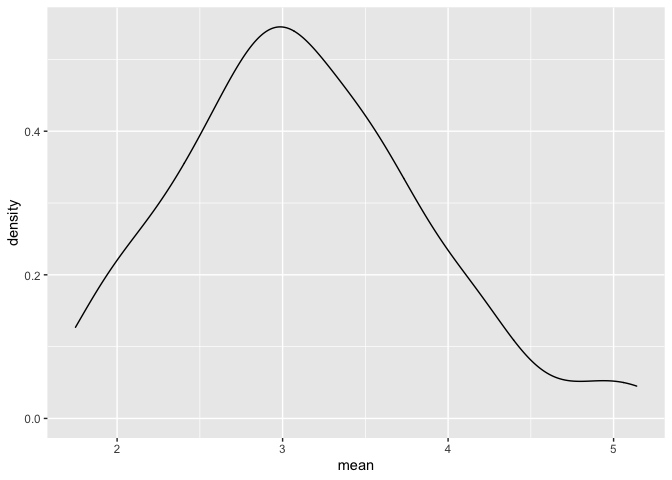
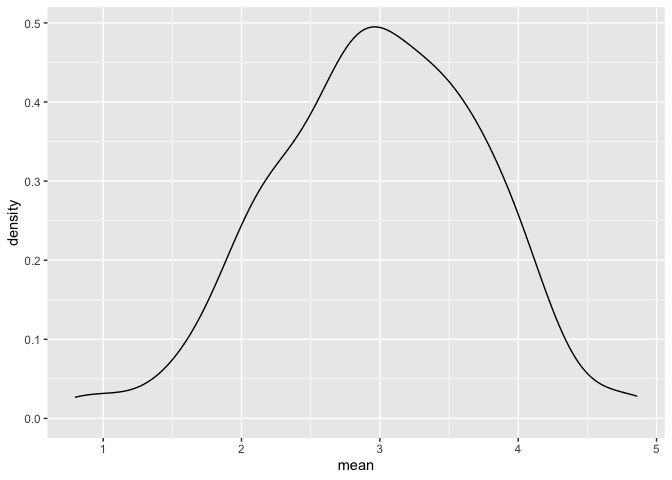
running many simulations

diff --git a/simulations.md b/simulations.md
@@ -34,6 +34,10 @@ library(rvest)
     ## 
     ##     guess_encoding
 
+``` r
+set.seed(1)
+```
+
 ## Let’s simulate something
 
 I have this function …
@@ -63,7 +67,7 @@ sim_mean_sd(30)
     ## # A tibble: 1 x 2
     ##    mean    sd
     ##   <dbl> <dbl>
-    ## 1  3.23  3.94
+    ## 1  3.33  3.70
 
 ## Let’s simulate a lot
 
@@ -84,16 +88,16 @@ bind_rows(output)
     ## # A tibble: 100 x 2
     ##     mean    sd
     ##    <dbl> <dbl>
-    ##  1  3.86  3.38
-    ##  2  3.25  3.89
-    ##  3  2.40  3.67
-    ##  4  3.29  4.01
-    ##  5  3.20  4.09
-    ##  6  2.99  3.20
-    ##  7  2.88  4.32
-    ##  8  4.64  3.70
-    ##  9  2.31  4.25
-    ## 10  3.24  3.62
+    ##  1  3.53  3.18
+    ##  2  3.44  3.84
+    ##  3  3.45  3.53
+    ##  4  1.68  3.69
+    ##  5  3.95  4.22
+    ##  6  3.27  4.34
+    ##  7  2.05  4.05
+    ##  8  3.10  3.72
+    ##  9  3.55  4.11
+    ## 10  3.87  3.79
     ## # … with 90 more rows
 
 Let’s use a loop function.
@@ -124,7 +128,7 @@ sim_results %>%
     ## # A tibble: 1 x 2
     ##   avg_samp_mean sd_samp_mean
     ##           <dbl>        <dbl>
-    ## 1          3.11        0.732
+    ## 1          2.98        0.756
 
 ``` r
 sim_results %>% 
@@ -132,3 +136,55 @@ sim_results %>%
 ```
 
 ![](simulations_files/figure-gfm/unnamed-chunk-6-2.png)<!-- -->
+
+## Let’s try other sample sizes.
+
+``` r
+n_list = 
+  list(
+    "n = 30" = 30,
+    "n = 60" = 60,
+    "n = 120" = 120,
+    "n = 240" = 240
+  )
+
+output = vector("list", length = 4)
+
+output[[1]] = rerun(100, sim_mean_sd(samp_size = n_list[[1]])) %>%  bind_rows()
+output[[2]] = rerun(100, sim_mean_sd(samp_size = n_list[[2]])) %>%  bind_rows()
+
+for (i in 1:4) {
+  
+  output[[i]] = 
+    rerun(100, sim_mean_sd(samp_size = n_list[[i]])) %>%  
+    bind_rows()
+  
+}
+```
+
+``` r
+sim_results = 
+  tibble(
+  sample_size = c(30, 60, 120, 240)
+  ) %>% 
+  mutate(
+    output_lists = map(.x = sample_size, ~ rerun(1000, sim_mean_sd(.x))),
+    estimate_df = map(output_lists, bind_rows)
+  ) %>% 
+  select(-output_lists) %>% 
+  unnest(estimate_df)
+```
+
+Do some data frame things.
+
+``` r
+sim_results %>% 
+  mutate(
+    sample_size = str_c("n = ", sample_size),
+    sample_size = fct_inorder(sample_size)
+  ) %>% 
+  ggplot(aes(x = sample_size, y = mean)) +
+  geom_boxplot()
+```
+
+![](simulations_files/figure-gfm/unnamed-chunk-9-1.png)<!-- -->
